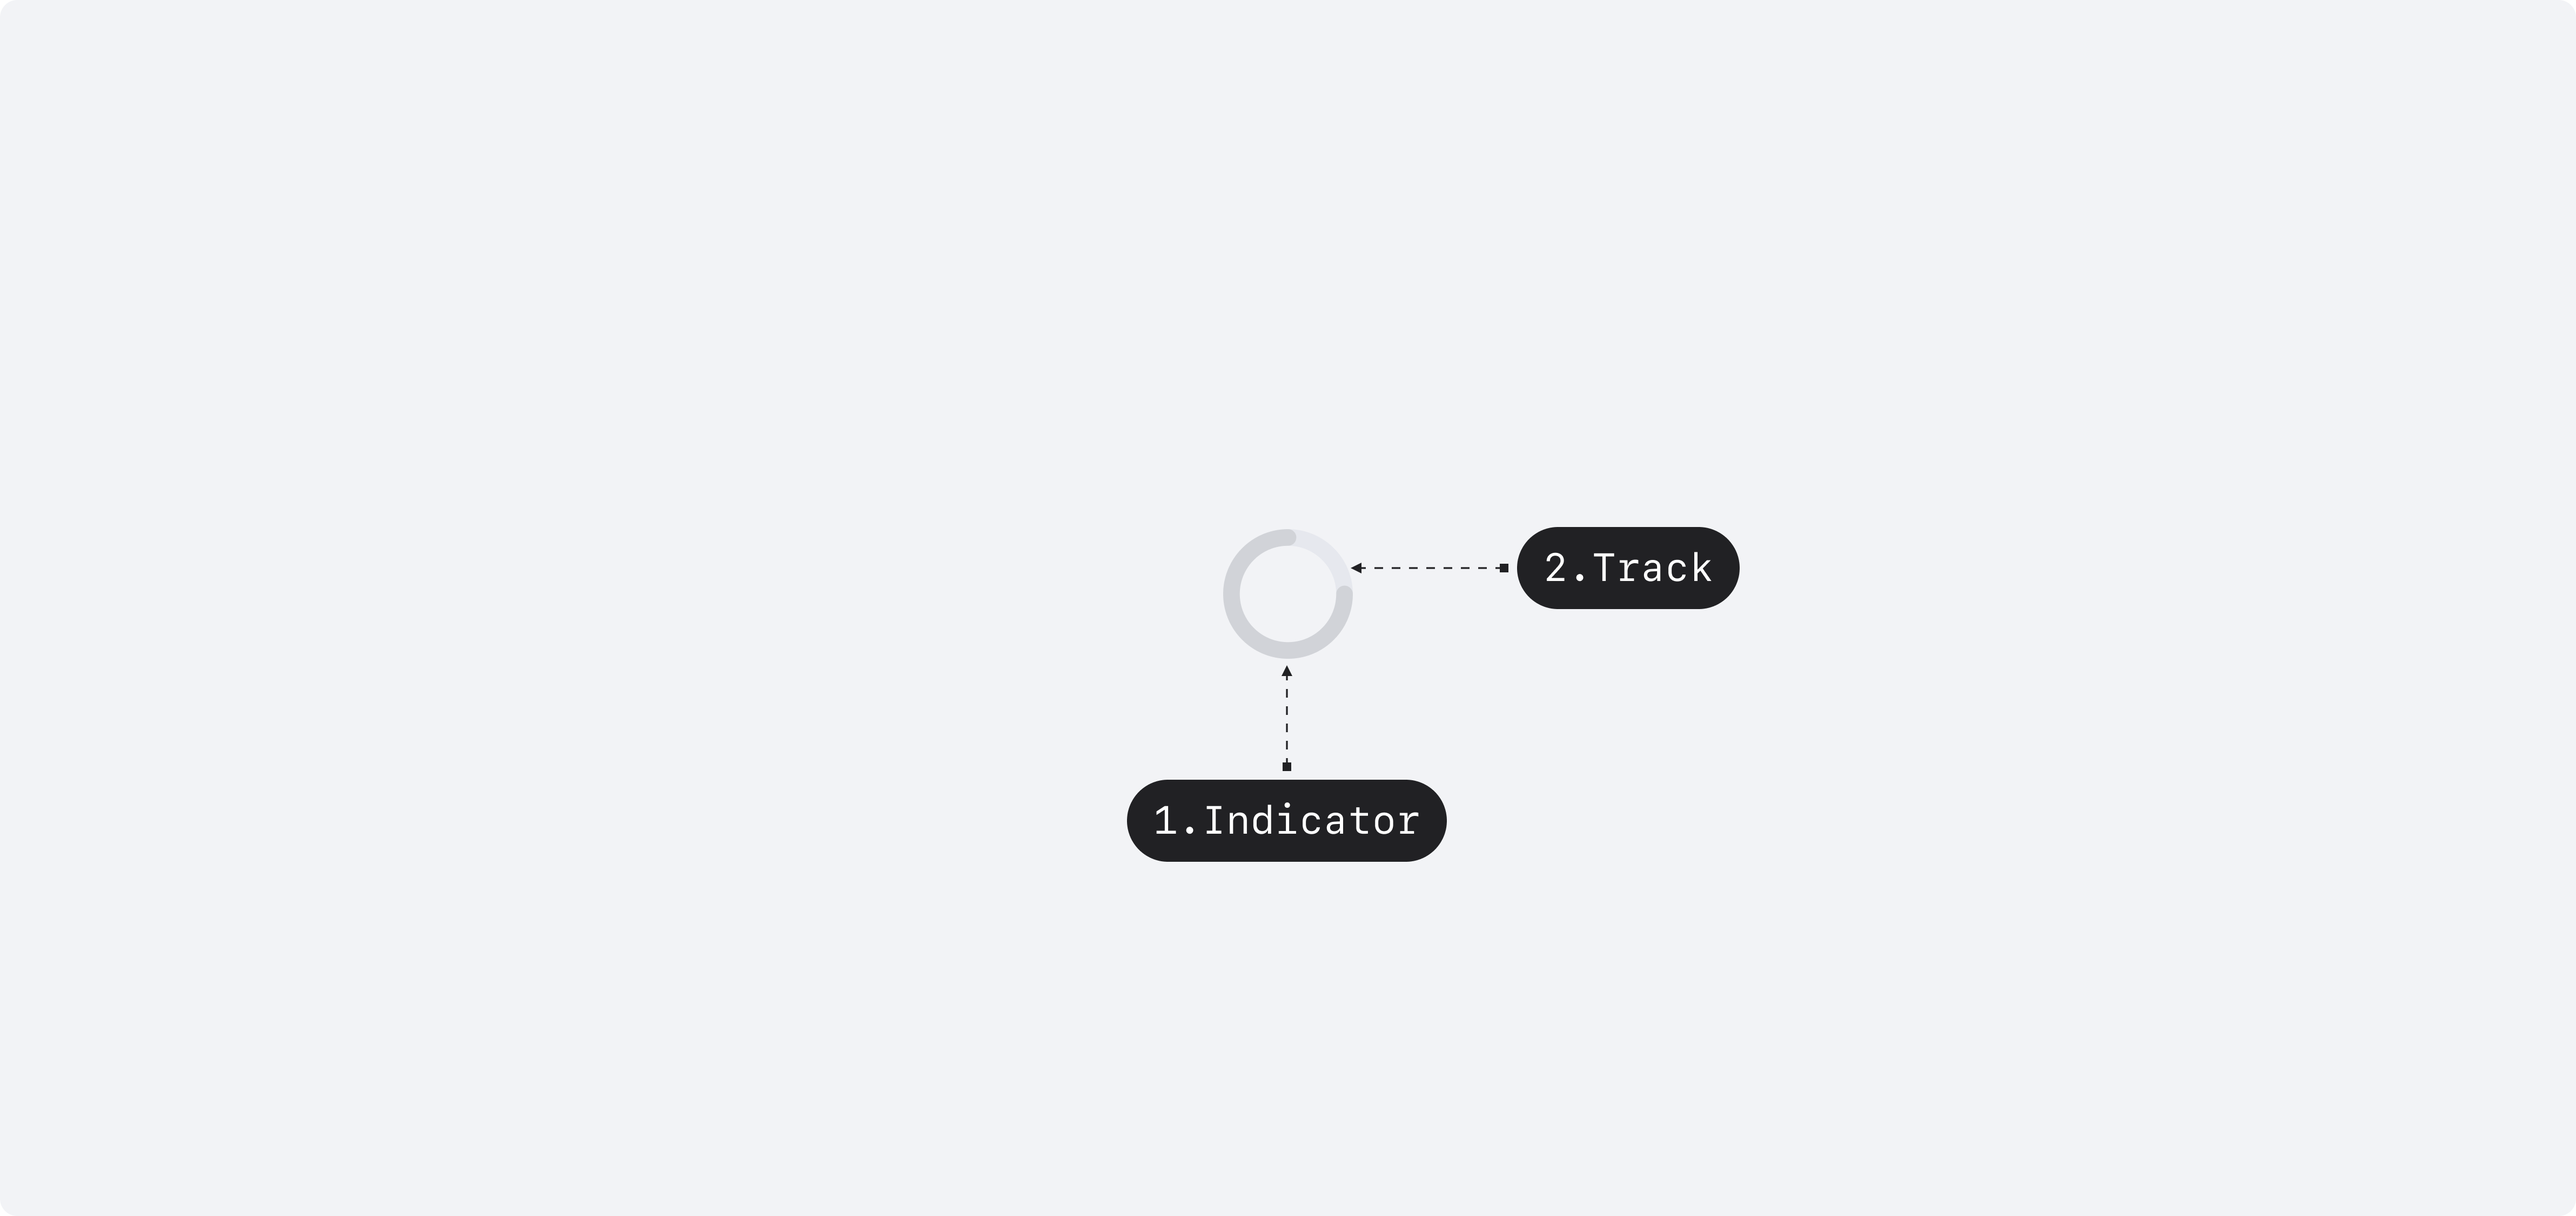
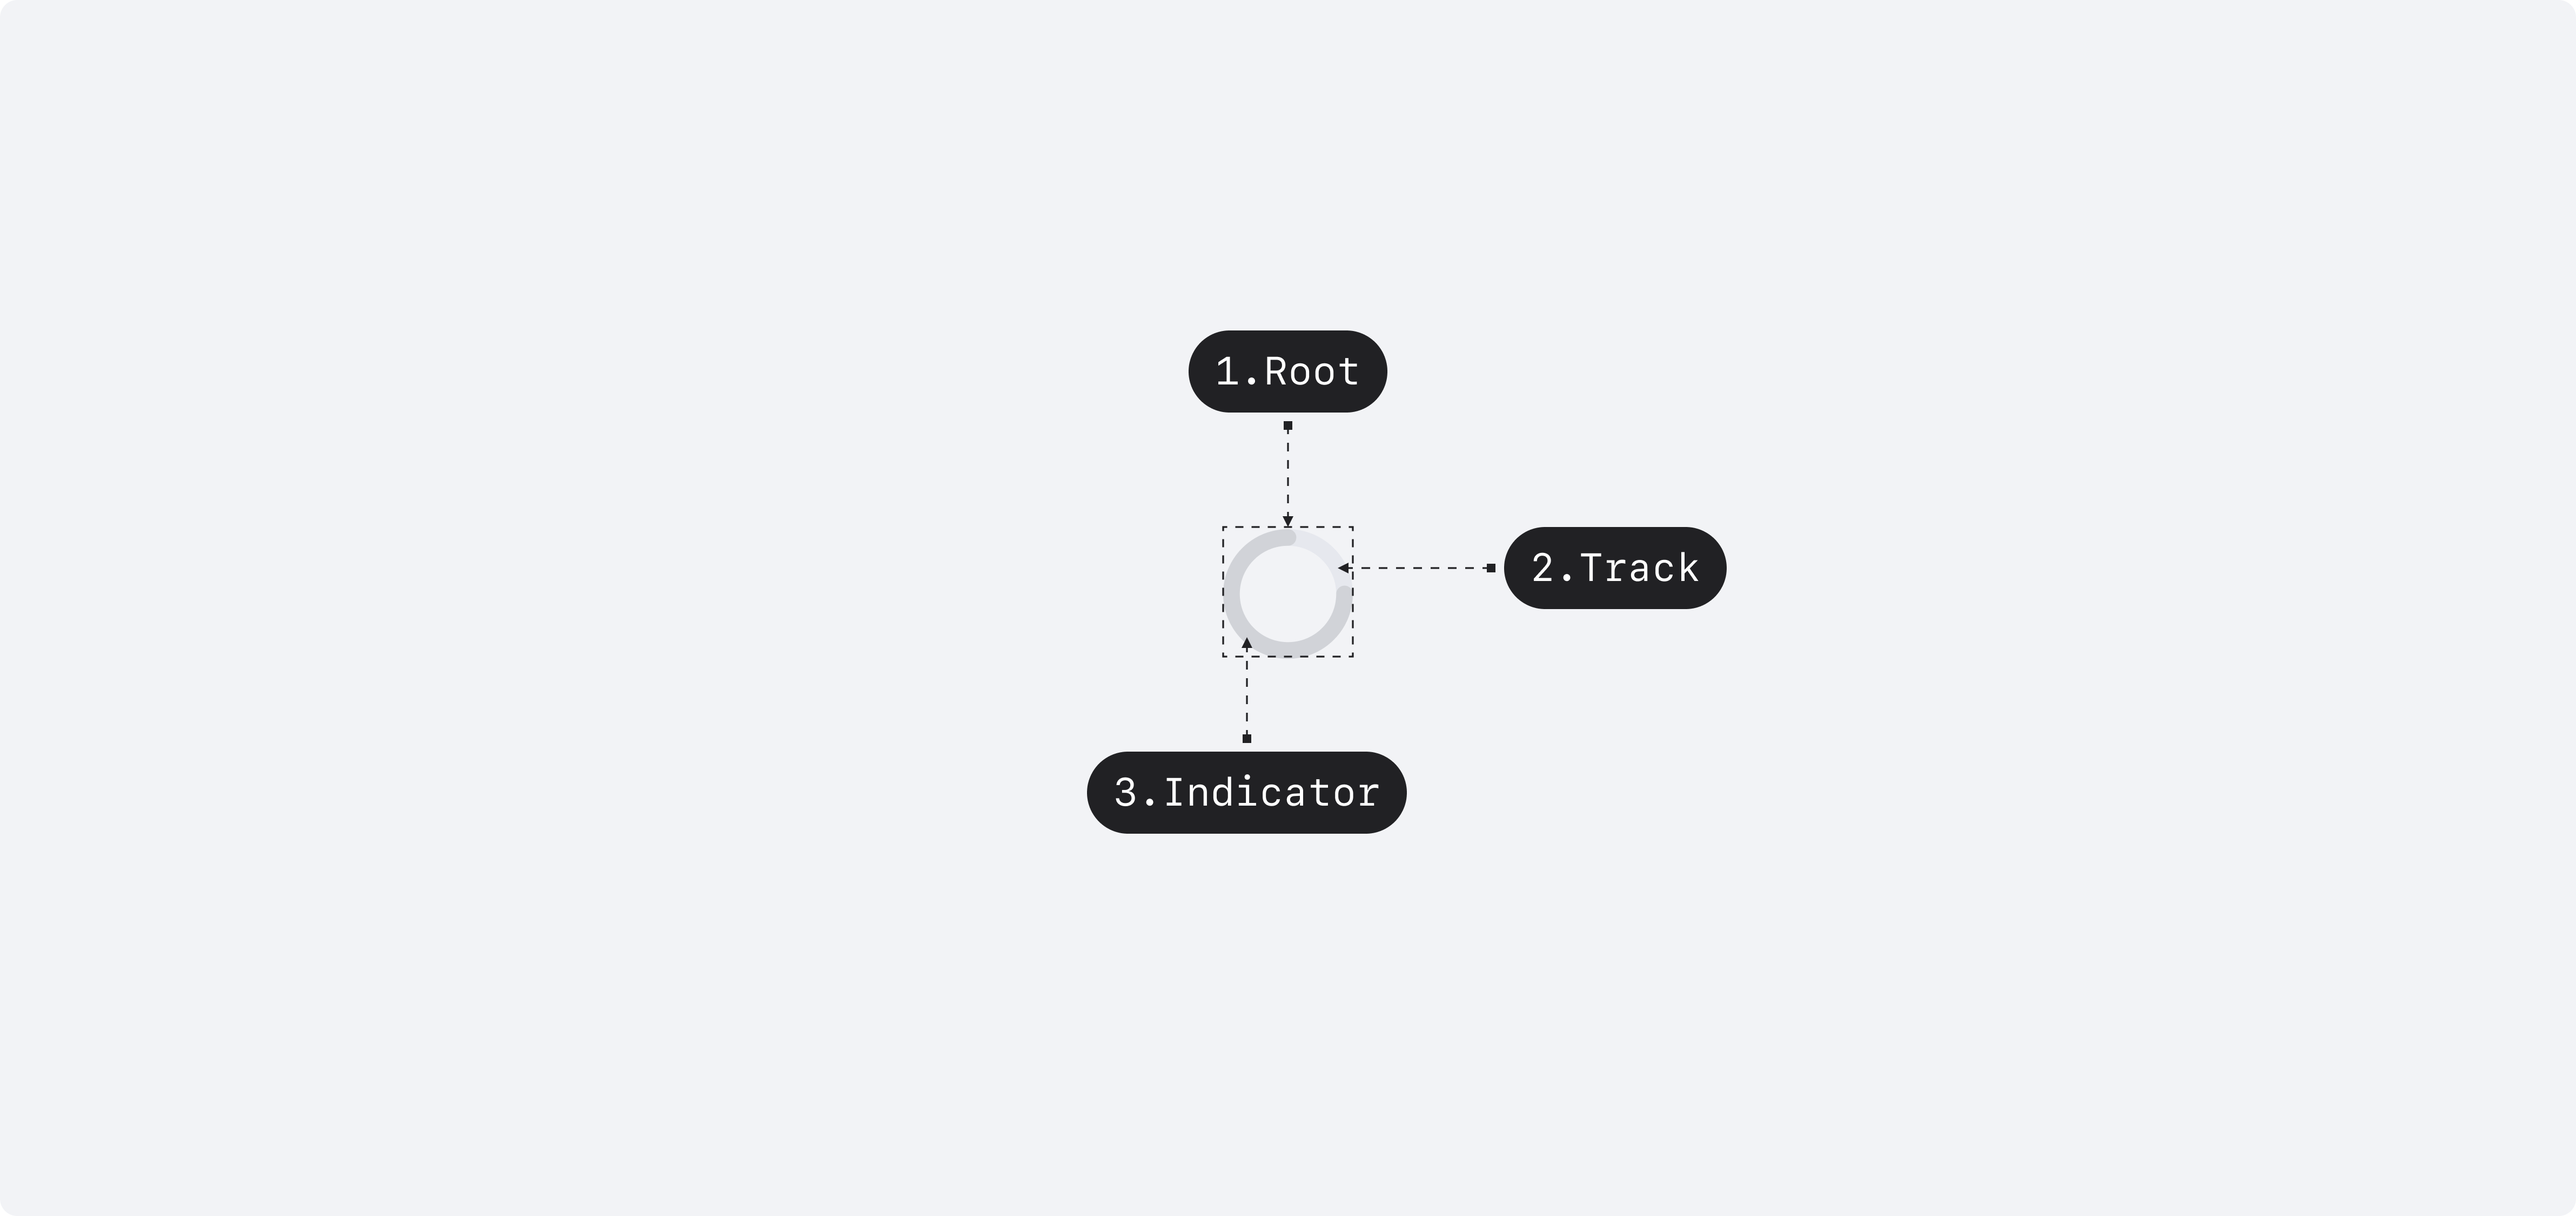
docs(seed-docs): change `<Spinner />` usage (#344)
* docs(seed-docs): spinner usage

* chore: changeset

Changed region(s): [[0.4062, 0.5906, 0.5625, 0.7149], [0.4375, 0.2487, 0.5625, 0.3419], [0.5625, 0.4352, 0.6875, 0.4973]]

diff --git a/.changeset/hungry-ants-smash.md b/.changeset/hungry-ants-smash.md
@@ -1,0 +1,13 @@
+---
+"@seed-design/docs": patch
+---
+
+#### ko
+
+- `<Spinner />` 컴포넌트의 애니메이션이 새롭게 변경돼요.
+- `<Spinner />` 컴포넌트 구조도에 `root`가 추가됐어요.
+
+#### en
+
+- `<Spinner />` component's animation has been changed.
+- `root` has been added to the structure of the `<Spinner />` component.
